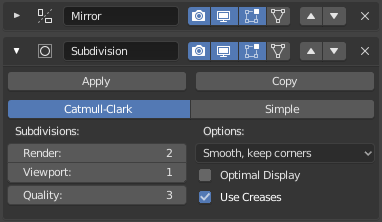
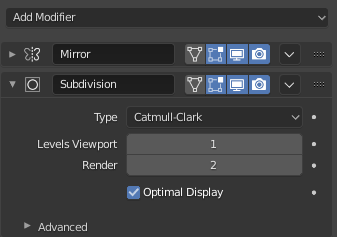
UI: Drag and Drop Modifiers
Part of rB9b099c86123fc828a194c59ce5b8bbf5a56f9cdb

git-svn-id: https://svn.blender.org/svnroot/bf-manual/trunk@6734 c4de1f47-6596-e411-a384-0024e86c2797

diff --git a/blender_docs/manual/modeling/modifiers/introduction.rst b/blender_docs/manual/modeling/modifiers/introduction.rst
@@ -45,6 +45,7 @@ Interface
 .. _fig-modifiers-panel-layout:
 
 .. figure:: /images/modeling_modifiers_introduction_panel-layout.png
+   :align: right
 
    Panel layout (Subdivision Surface as an example).
 
@@ -60,12 +61,7 @@ Type
 Name
    Every modifier has a unique name per object. Two modifiers on one object must have unique names,
    but two modifiers on different objects can have the same name. The default name is based on the modifier type.
-Render (camera icon)
-   Toggle visibility of the modifier's effect in the render.
-Show in Viewport (screen icon)
-   Toggle visibility of the modifier's effect in the 3D Viewport.
-Show in Edit Mode (vertices-square icon)
-   Display the modified geometry in Edit mode, as well as the original geometry which you can edit.
+
 Show on Cage (vertices-triangle icon) -- Meshes only
    Depends on the previous setting, if enabled, the modified geometry can also be edited directly,
    instead of the original one.
@@ -75,6 +71,17 @@ Show on Cage (vertices-triangle icon) -- Meshes only
       While it shows edited items in their final, modified positions, you are still actually editing original data.
       This can lead to weird and unpredictable effects with some tools,
       and should be disabled whenever you need to perform complex or precise editing on the mesh.
+Show in Edit Mode (vertices-square icon)
+   Display the modified geometry in Edit mode, as well as the original geometry which you can edit.
+Show in Viewport (screen icon)
+   Toggle visibility of the modifier's effect in the 3D Viewport.
+Render (camera icon)
+   Toggle visibility of the modifier's effect in the render.
+
+   .. note::
+
+      The *Square*, *Triangle* and *Surface* icons may not be available,
+      depending on the type of object and modifier.
 
 Apply On Spline Points (point surface icon) -- Curves, surfaces and texts only
    Apply the whole modifier stack up to and including that one on the curve or surface control points,
@@ -85,36 +92,31 @@ Apply On Spline Points (point surface icon) -- Curves, surfaces and texts only
       By default, curves, texts and surfaces are always converted to mesh-like geometry
       before that the modifier stack is evaluated on them.
 
-Move (up/down arrow icon)
-   Move the modifier up/down in the stack.
-Delete (``X`` icon)
-   Delete the modifier.
+Specials
+   Apply
+      Makes the modifier "real": converts the object's geometry to match the applied modifier's results,
+      and deletes the modifier.
 
-.. note::
+      .. warning::
 
-   The *Square*, *Triangle* and *Surface* icons may not be available, depending on the type of object and modifier.
+         Applying a modifier that is not first in the stack will ignore the stack order
+         (it will be applied as if it was the first one), and may produce undesired results.
+   Apply as Shape Key
+      Stores the result of that modifier in a new relative :doc:`shape key </animation/shape_keys/introduction>`.
+      This is only available with modifiers that do not affect the topology (typically, *Deform* modifiers only).
 
-Below the header are three buttons:
+      .. note::
 
-Apply
-   Makes the modifier "real": converts the object's geometry to match the applied modifier's results,
-   and deletes the modifier.
-Apply as Shape Key
-   Stores the result of that modifier in a new relative :doc:`shape key </animation/shape_keys/introduction>`.
-   This is only available with modifiers that do not affect the topology (typically, *Deform* modifiers only).
+         Even though it should work with any geometry type that supports shape keys,
+         currently it will only work with meshes.
+   Duplicate
+      Creates a duplicate of the modifier just below current one in the stack.
+   Delete
+      Delete the modifier.
 
-   .. note::
-
-      Even though it should work with any geometry type that supports shape keys,
-      currently it will only work with meshes.
-
-Copy
-   Creates a duplicate of the modifier just below current one in the stack.
-
-.. warning::
-
-   Applying a modifier that is not first in the stack will ignore the stack order
-   (it will be applied as if it was the first one), and may produce undesired results.
+Move ``::::``
+   Move the modifier up/down in the :ref:`stack <modifier-stack>`,
+   changing the evaluation order of the modifiers.
 
 Below this header, all of the options unique to each modifier will be displayed.
 
